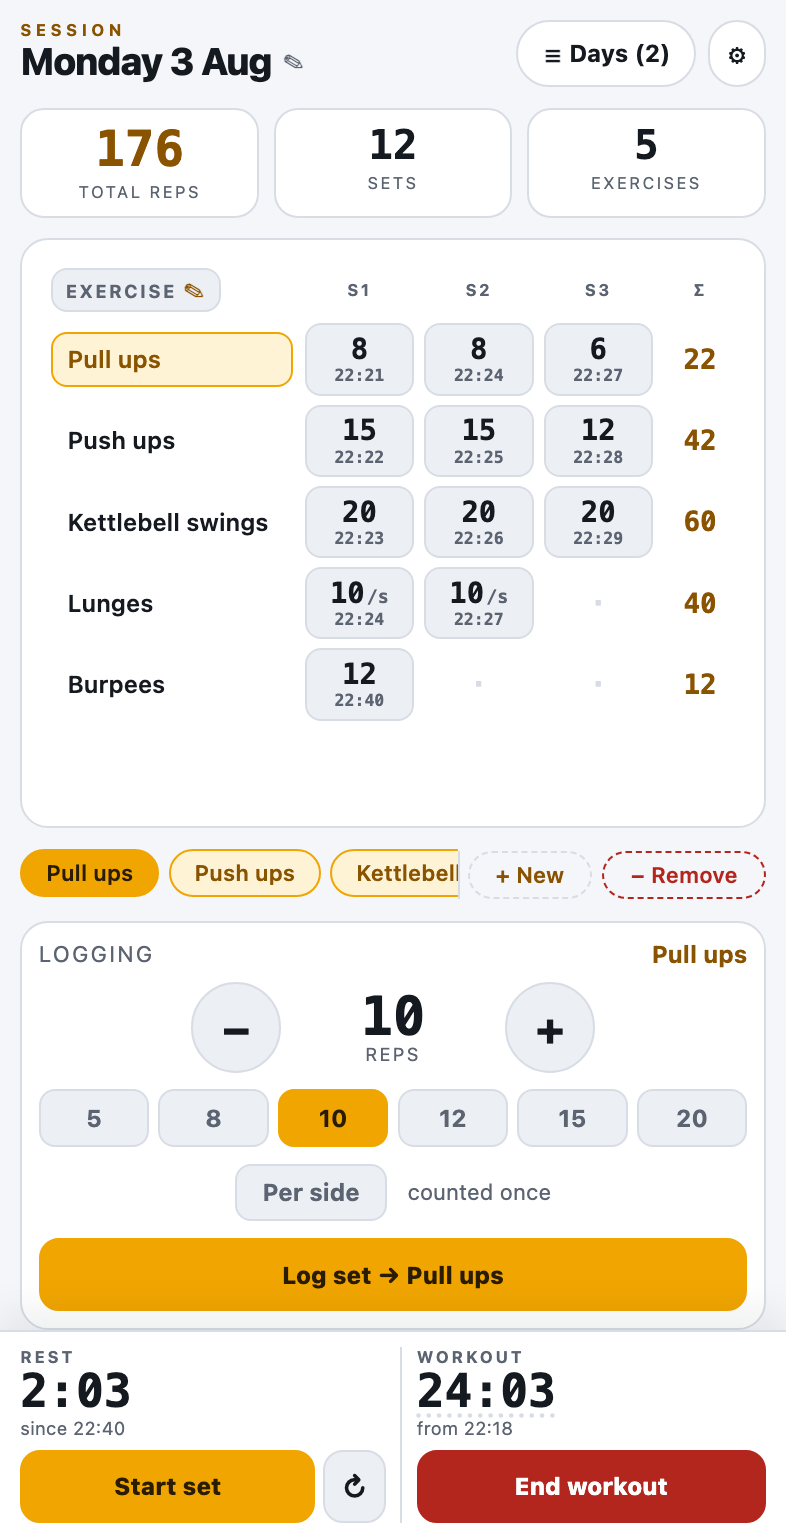
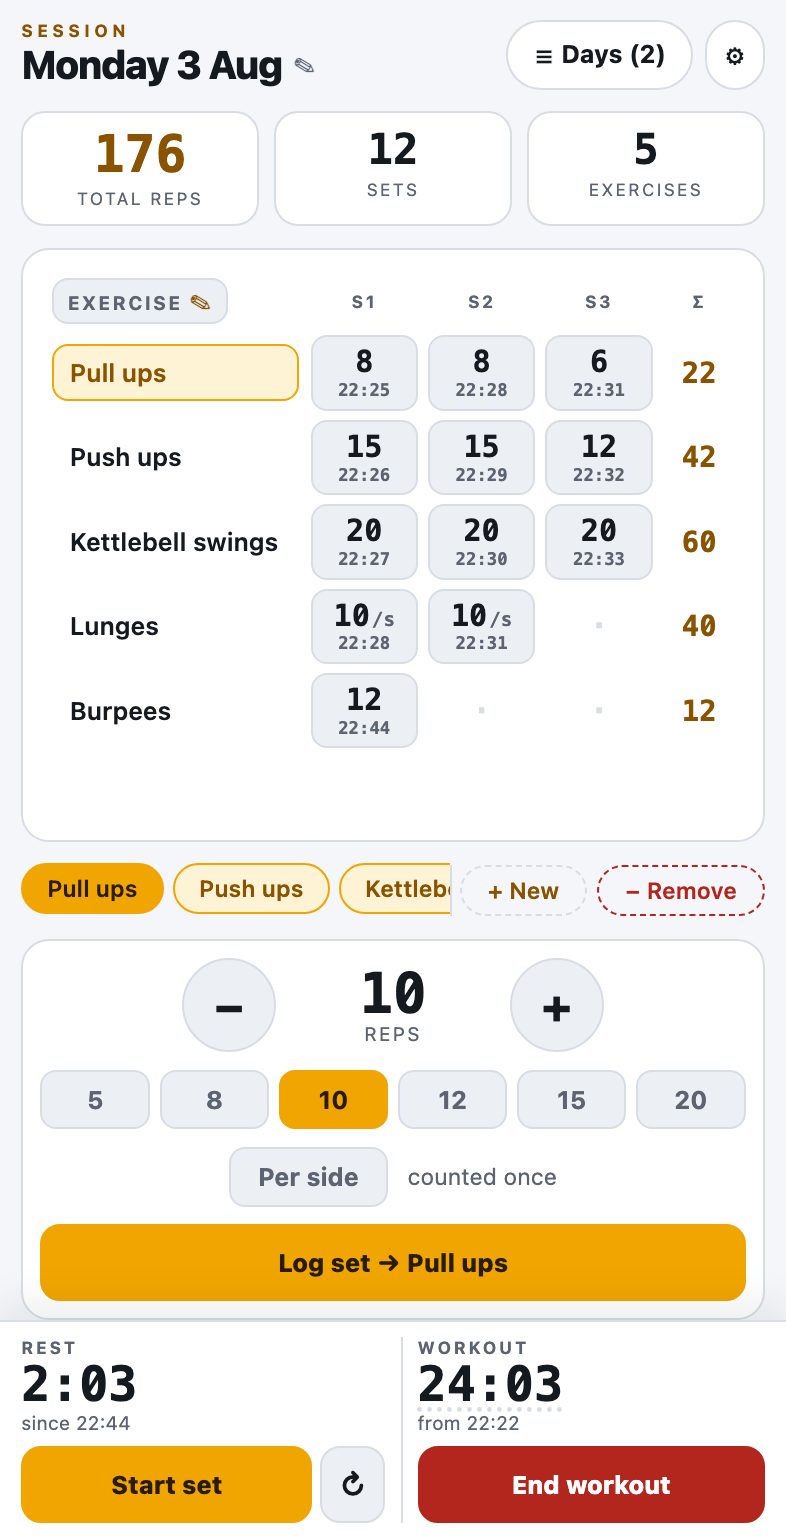
Drop the logging header that repeated the button

diff --git a/js/views.js b/js/views.js
@@ -46,9 +46,13 @@ function setsTable(session){
 
 function logPanel(){
   const a=activeEx();
-  let h="<div class='card panel'><div class='prow'>"+
-    "<div class='plabel'>"+(state.editing?"Editing set":"Logging")+"</div>"+
-    "<div class='pactive'>"+(a?esc(a.name):"&mdash;")+"</div></div>";
+  // No header while logging: the Log set button already names the exercise, and the space
+  // is better given to the table. Editing keeps one, since its buttons name nothing.
+  let h="<div class='card panel'>";
+  if(state.editing){
+    h+="<div class='prow'><div class='plabel'>Editing set</div>"+
+       "<div class='pactive'>"+(a?esc(a.name):"&mdash;")+"</div></div>";
+  }
   h+="<div class='stepper'><button class='round' id='minus'>&minus;</button>"+
      "<div class='repbox'><div class='repnum mono'>"+state.reps+"</div><div class='replbl'>reps</div></div>"+
      "<button class='round' id='plus'>+</button></div>";
